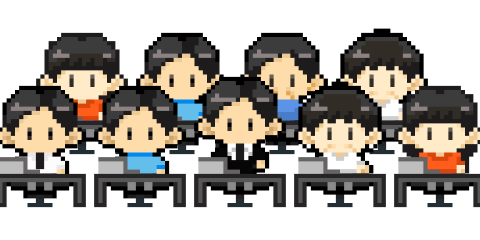
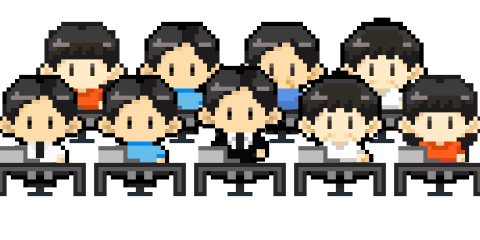
edit : 비뚤어진 이미지 수정, 이미지 표시 함수 추가.

diff --git a/src/Scenes/SceneLoading.js b/src/Scenes/SceneLoading.js
@@ -53,17 +53,95 @@ function SetTimer() {
         }
     }, [sec]);
 
-    const imageName = questionData[random][1];
-
     return (
         <div className="main-body">
-
-            <p>{random} 결과를 계산중입니다</p>
-            <img className='char' id='char_body' src={'./images/char/' + imageName + '_1.png'} alt='charBody' />
+            <p> 결과를 계산중입니다</p>
+            <DrawImage />
             
         </div>
     )
 
+
+
+    function DrawImage() 
+    {
+        var result = [];
+
+        //draw 5 8 10 11 first
+        {
+            const i = 5;
+            const randomNumber = Math.round(Math.random(0, 1) * 3) - 1;
+            if (randomNumber > 0) {
+                const imageName = questionData[i][1];
+                const imagePath = imageName + "_" + randomNumber;
+                result.push(<img key={i} className='char' id='char_body' src={'./images/char/' + imagePath + '.png'} alt='charBody' />);
+            }
+        }
+
+        {
+            const i = 8;
+            const randomNumber = Math.round(Math.random(0, 1) * 3) - 1;
+            if (randomNumber > 0) {
+                const imageName = questionData[i][1];
+                const imagePath = imageName + "_" + randomNumber;
+                result.push(<img key={i} className='char' id='char_body' src={'./images/char/' + imagePath + '.png'} alt='charBody' />);
+            }
+        }
+
+        // {
+        //     const i = 10;
+        //     const randomNumber = Math.round(Math.random(0, 1) * 3) - 1;
+        //     if (randomNumber > 0) {
+        //         const imageName = questionData[i][1];
+        //         const imagePath = imageName + "_" + randomNumber;
+        //         result.push(<img key={i} className='char' id='char_body' src={'./images/char/' + imagePath + '.png'} alt='charBody' />);
+        //     }
+        // }
+
+        {
+            const i = 11;
+            const randomNumber = Math.round(Math.random(0, 1) * 3) - 1;
+            if (randomNumber > 0)
+            {
+                const imageName = questionData[i][1];
+                const imagePath = imageName + "_" + randomNumber;
+                result.push(<img key={i} className='char' id='char_body' src={'./images/char/' + imagePath + '.png'} alt='charBody' />);    
+            }
+        }
+
+        {
+            const i = 0;
+            const randomNumber = Math.random(0, 1) > 0.5 ? 1 : 2;
+            if (randomNumber > 0) {
+                const imageName = questionData[i][1];
+                const imagePath = imageName + "_" + randomNumber;
+                result.push(<img key={i} className='char' id='char_body' src={'./images/char/' + imagePath + '.png'} alt='charBody' />);
+            }
+        }
+
+
+        for(var i = 1; i < 13; i++)
+        {
+            const randomNumber = Math.round(Math.random(0, 1) * 3) - 1;
+            if(randomNumber <= 0)
+                continue;
+            if (i == 5 || i == 8 || i == 10 || i == 11)
+                continue;
+            const imageName = questionData[i][1];
+            const imagePath = imageName + "_" + randomNumber;
+            result.push(<img key={i} className='char' id='char_body' src={'./images/char/' + imagePath + '.png'} alt='charBody' />);    
+        }
+
+
+        return (
+            <div>
+                <div className='main-image'>
+                    {result}
+                </div>
+                {/* <img src={'./images/' + image + '.png'} style={{ width: '480px' }} alt='' /> */}
+            </div>
+        )
+    }
 }
 
 export default RenderLoading;

diff --git a/src/Scenes/SceneResult.js b/src/Scenes/SceneResult.js
@@ -1,7 +1,7 @@
 import '../App.css'; 
 //import axios from "axios";
 import React, { useEffect } from 'react';
-import { textData, sceneData, pageData, userSelectData, mulitpliData, baseHigherData } from '../Data/AppVars';
+import { textData, sceneData, pageData, userSelectData, mulitpliData, baseHigherData, questionData } from '../Data/AppVars';
 import RenderLineChart from '../Data/LineChartDrawer';
 import RaderChart from '../Data/RaderChartDrawer';
 
@@ -24,7 +24,7 @@ function RenderResultPage(prop) {
 
             <ResulTitle />
             <ResultLevelImage rank={GetRank(mulitpliData, userSelect)} />
-            <ResultReport name={userName} text={textData[GetRank(mulitpliData, userSelect)]} />
+            <ResultReport name={userName} rank={GetRank(mulitpliData, userSelect)} text={textData[GetRank(mulitpliData, userSelect)]} />
             <Resultchart />
         </div>
     )
@@ -42,14 +42,37 @@ function ResulTitle()
     )
 }
 
-function ResultLevelImage(prop)
+function ResultLevelImage(prop) 
 {
+    const { userSelect } = userSelectData();
     const rank = prop.rank
+    var result = [];
+    
+    {
+        const i = 8;
+        const selectedNumber = userSelect[i];
+        if (selectedNumber > 0) {
+            const imageName = questionData[i][1];
+            const imagePath = imageName + "_" + selectedNumber;
+            result.push(<img key={i} className='char' id='char_body' src={'./images/char/' + imagePath + '.png'} alt='charBody' />);
+        }
+    }
+
+    for (var i = 1; i < 5; i++) {
+        const selectedNumber = userSelect[i];
+        if (selectedNumber <= 0)
+            continue;
+        const imageName = questionData[i][1];
+        const imagePath = imageName + "_" + selectedNumber;
+        result.push(<img key={i + 1} className='char' id='char_body' src={'./images/char/' + imagePath + '.png'} alt='charBody' />);
+    }
+
+
     return (
         <div>
-
-            <p> Level {rank}</p>
-            <img className='char' src={'./images/char/age_1.png'} alt="LevelImage" />
+            <div className='main-image'>
+                {result}
+            </div>
         </div>
     )
 }
@@ -58,10 +81,12 @@ function ResultReport(prop)
 {
     const name = prop.name
     const textData = prop.text
+    const rank = prop.rank
     return (
         <div>
             <hr/>
             <p>userName : {name}</p>
+            <p>rank : {rank}</p>
             <p>textData : {textData}</p>
         </div>
     )

diff --git a/src/Scenes/SceneSelect.js b/src/Scenes/SceneSelect.js
@@ -216,12 +216,6 @@ function PageMainUserSelectBox(prop) {
     const { userSelect } = userSelectData();
     const result = [];
 
-    // for (let i = 1; i < userSelect.length; i++) {
-    //     if (i !== pageIndex + 1)
-    //         result.push(<button className='box_Choosed' key={i}>{userSelect[i] ?? 0}</button>);
-    //     else
-    //         result.push(<button className='box_Choosed' style={{ color: "red" }} key={i}>{userSelect[i] ?? 0}</button>);
-    // }
     return <div> {result} </div>
 }
 
@@ -238,9 +232,13 @@ function SetUserSelectData(prop) {
         if (_refreshUserSelectDataFlag) {
             //push SelectedNumber to userSelect
             var tempAry = [...userSelect, chosenIndex];
+            //if tempAry.length > pageindex, remove last element
+            while (tempAry.length > pageIndex + 1) {
+                tempAry.pop();
+            }
             setUserSelect(tempAry);
-            _userChosenData = 0;
-
+            _userChosenData = 0; 
+            console.log(tempAry)
             //move to next Scene
             if (pageIndex > _pageIndexMax)
             {
